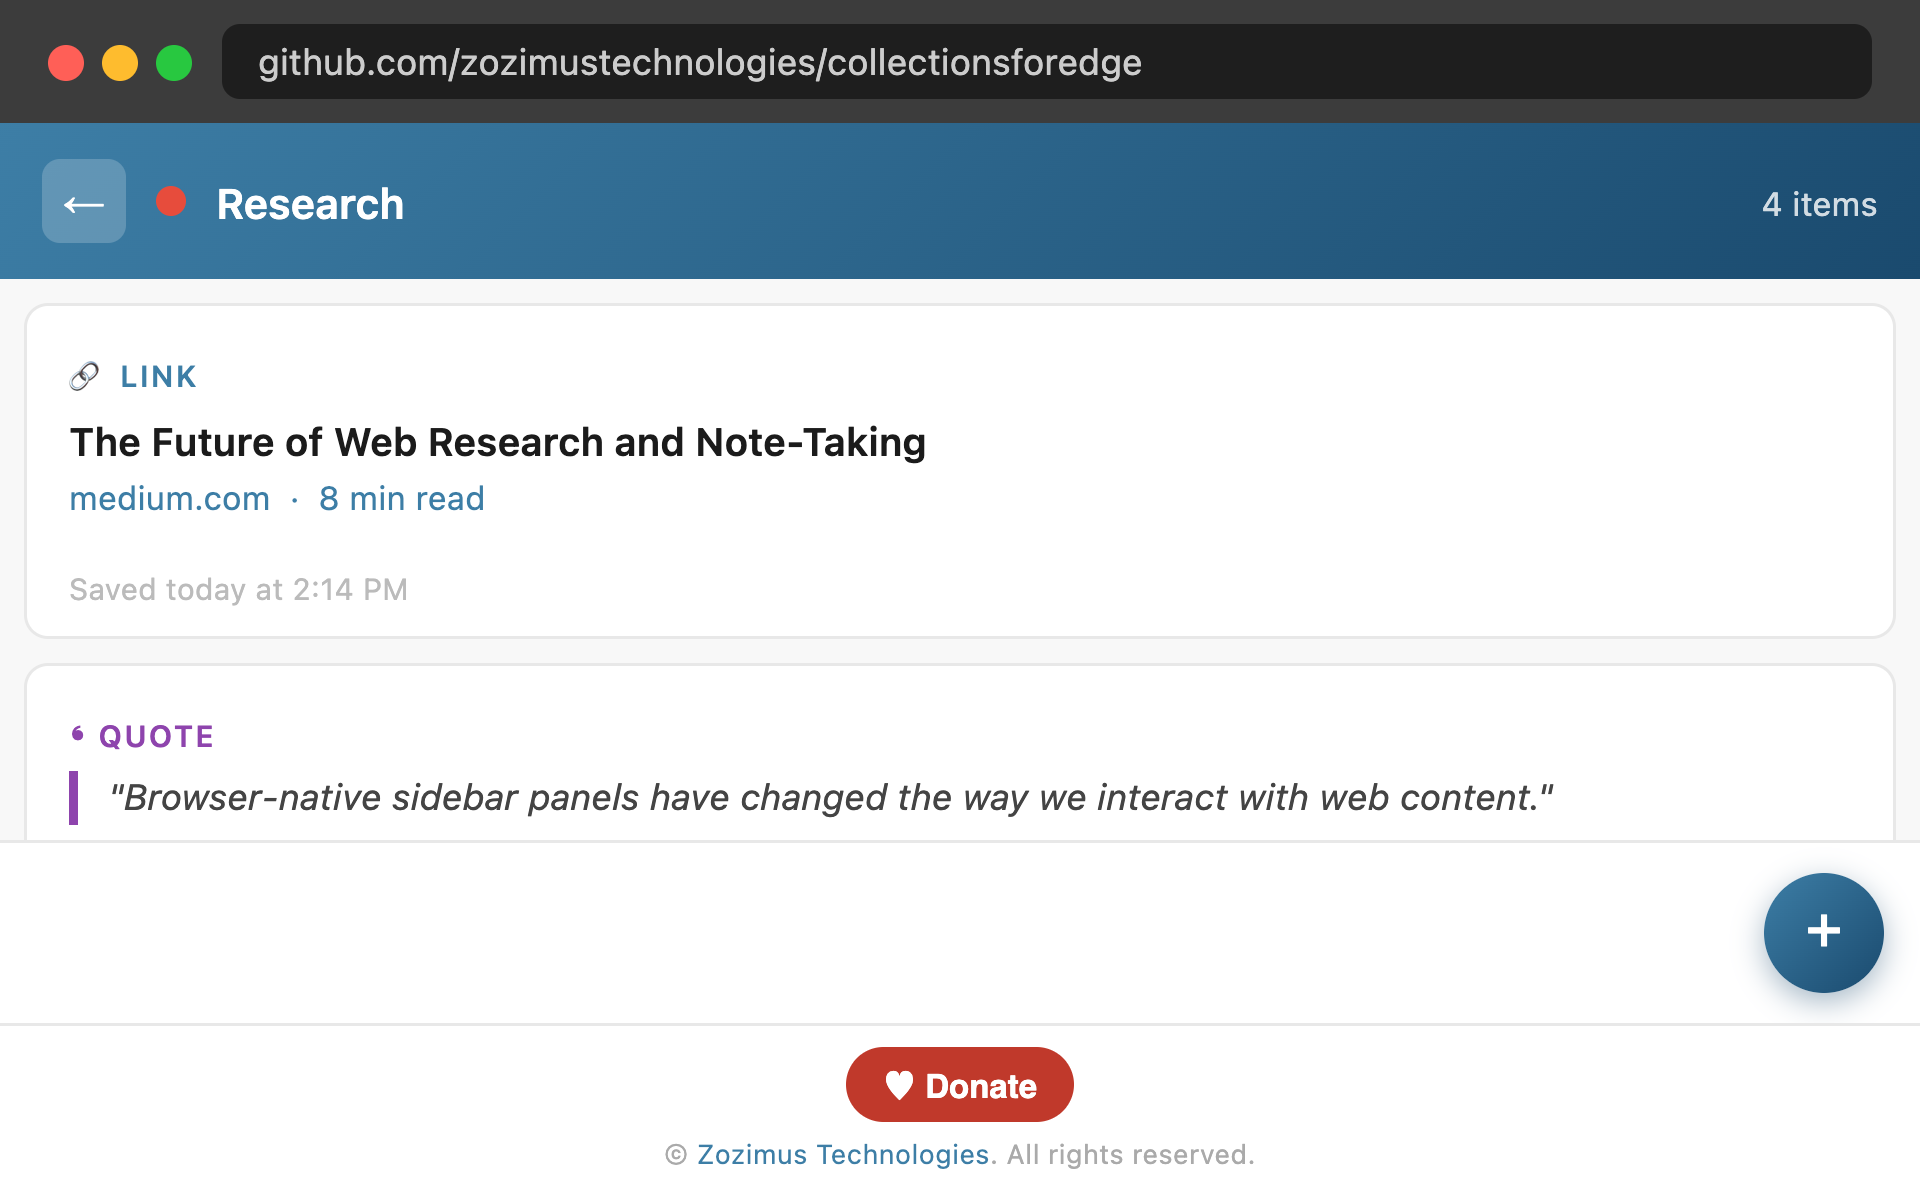
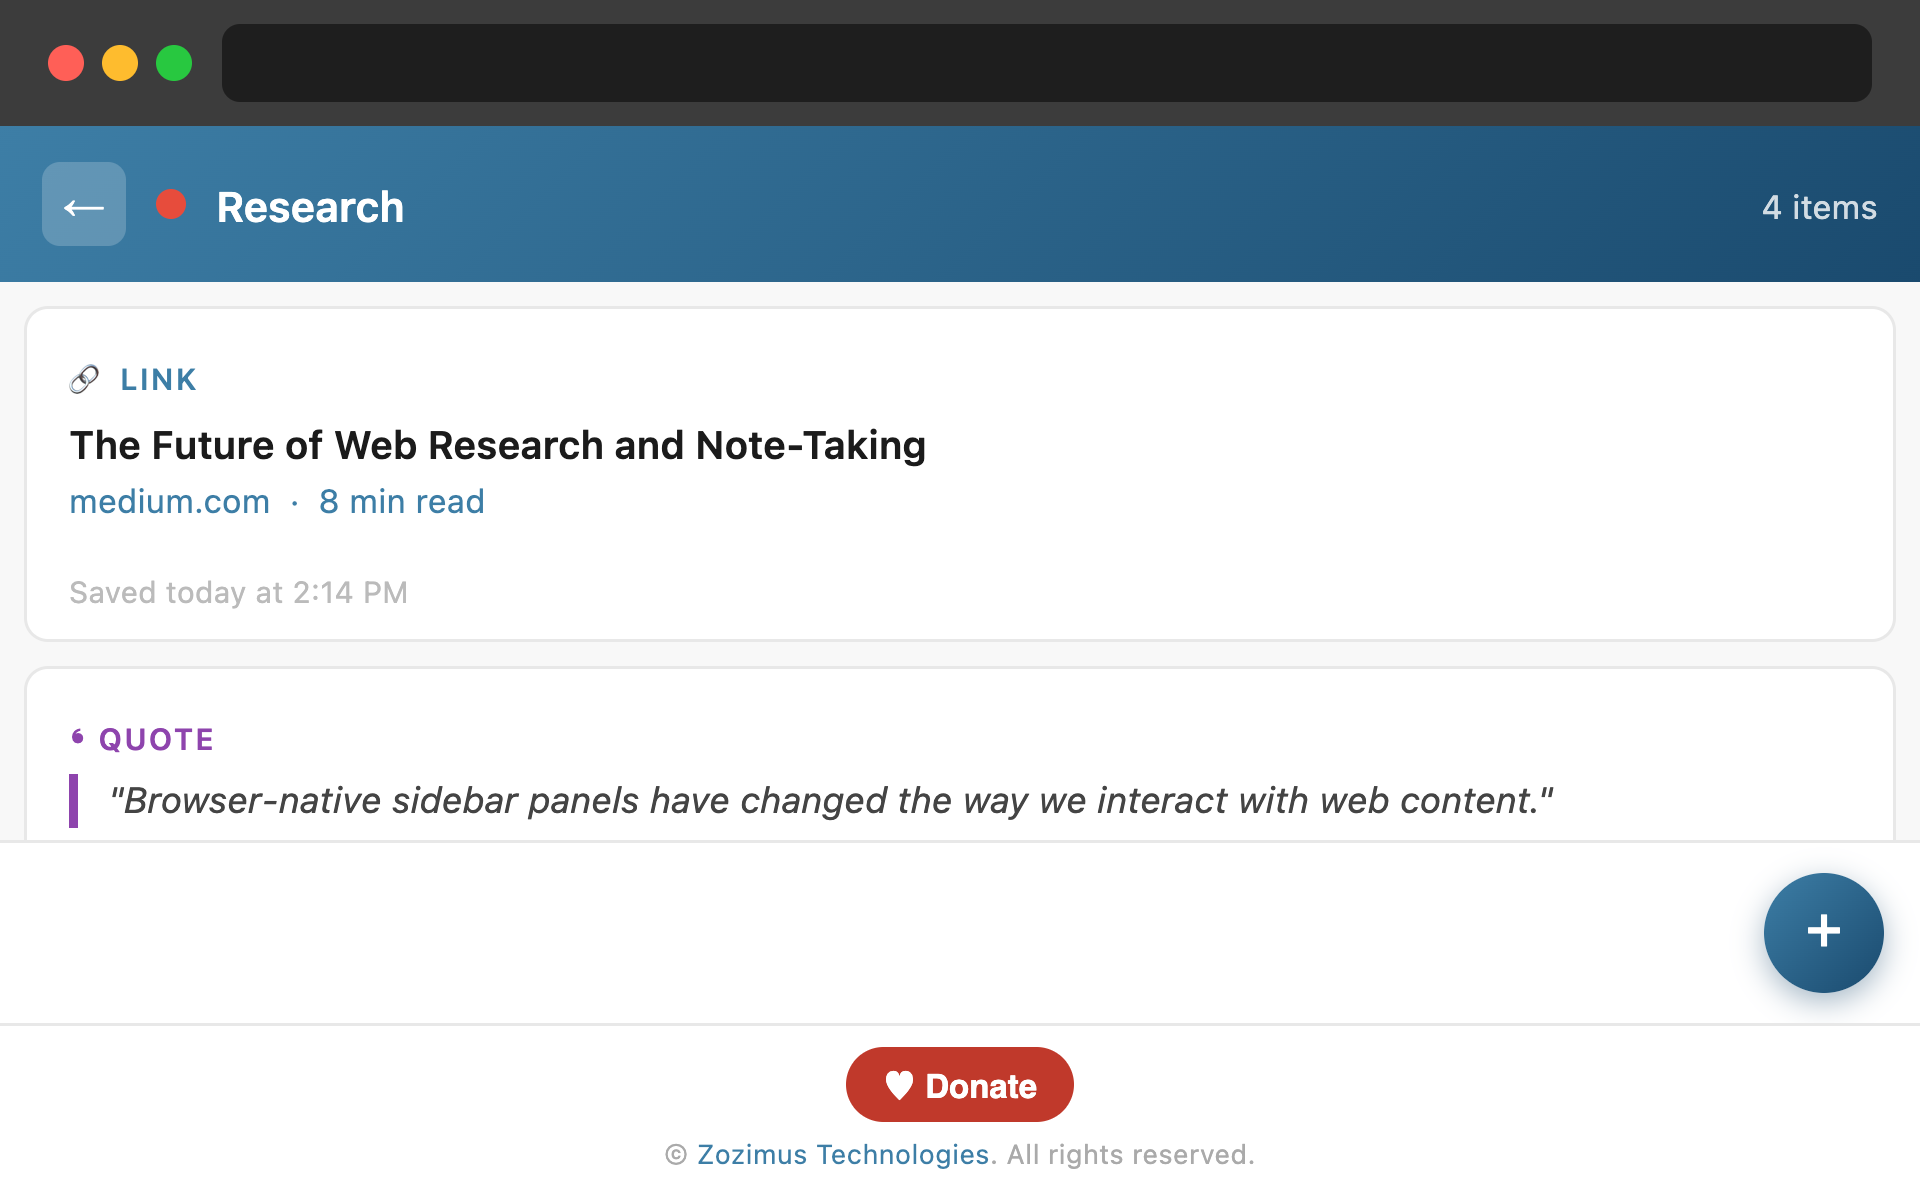
storeassets: remove address bar text from detail preview; regenerate screenshot

diff --git a/storeassets/preview-detail.html b/storeassets/preview-detail.html
@@ -13,7 +13,7 @@
   .browser-dot.red { background: #ff5f57; }
   .browser-dot.yellow { background: #febc2e; }
   .browser-dot.green { background: #28c840; }
-  .browser-address { flex: 1; background: #1e1e1e; border-radius: 6px; padding: 5px 12px; color: #ccc; font-size: 12px; }
+  .browser-address { flex: 1; background: #1e1e1e; border-radius: 6px; padding: 5px 12px; color: #ccc; font-size: 12px; min-height: 26px; }
   .side-panel { flex: 1; background: #f8f8f8; display: flex; flex-direction: column; overflow: hidden; }
   .panel-header { background: linear-gradient(135deg, #3d7ea6 0%, #1a4a6e 100%); padding: 12px 14px; display: flex; align-items: center; gap: 10px; color: white; flex-shrink: 0; }
   .back-btn { background: rgba(255,255,255,0.2); border: none; color: white; width: 28px; height: 28px; border-radius: 6px; font-size: 14px; cursor: pointer; display: flex; align-items: center; justify-content: center; }
@@ -46,7 +46,7 @@
 <div class="browser-frame">
   <div class="browser-toolbar">
     <div class="browser-dots"><div class="browser-dot red"></div><div class="browser-dot yellow"></div><div class="browser-dot green"></div></div>
-    <div class="browser-address">github.com/zozimustechnologies/collectionsforedge</div>
+    <div class="browser-address"></div>
   </div>
   <div class="side-panel">
     <div class="panel-header">
